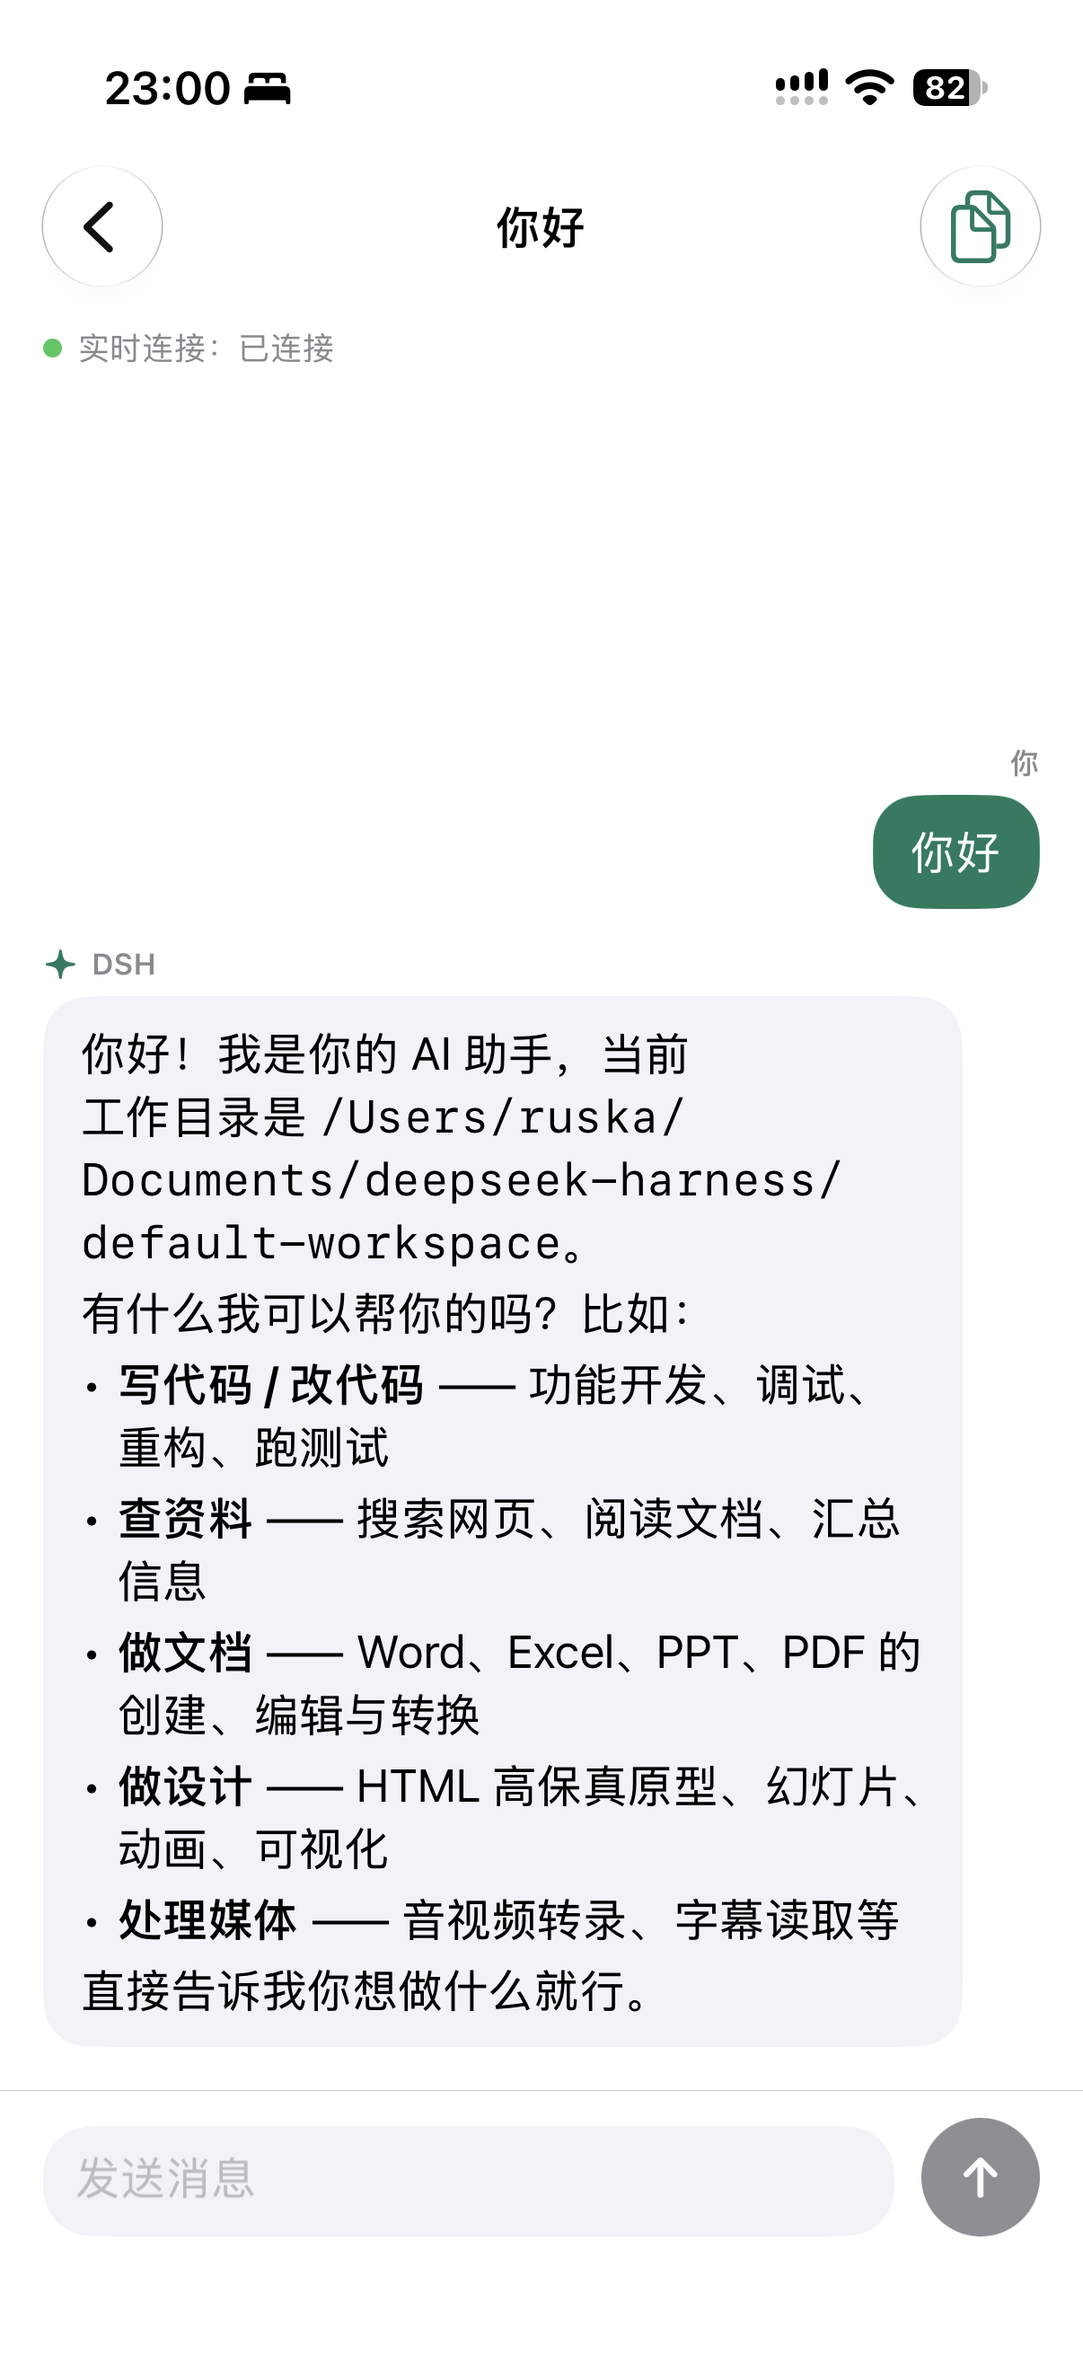
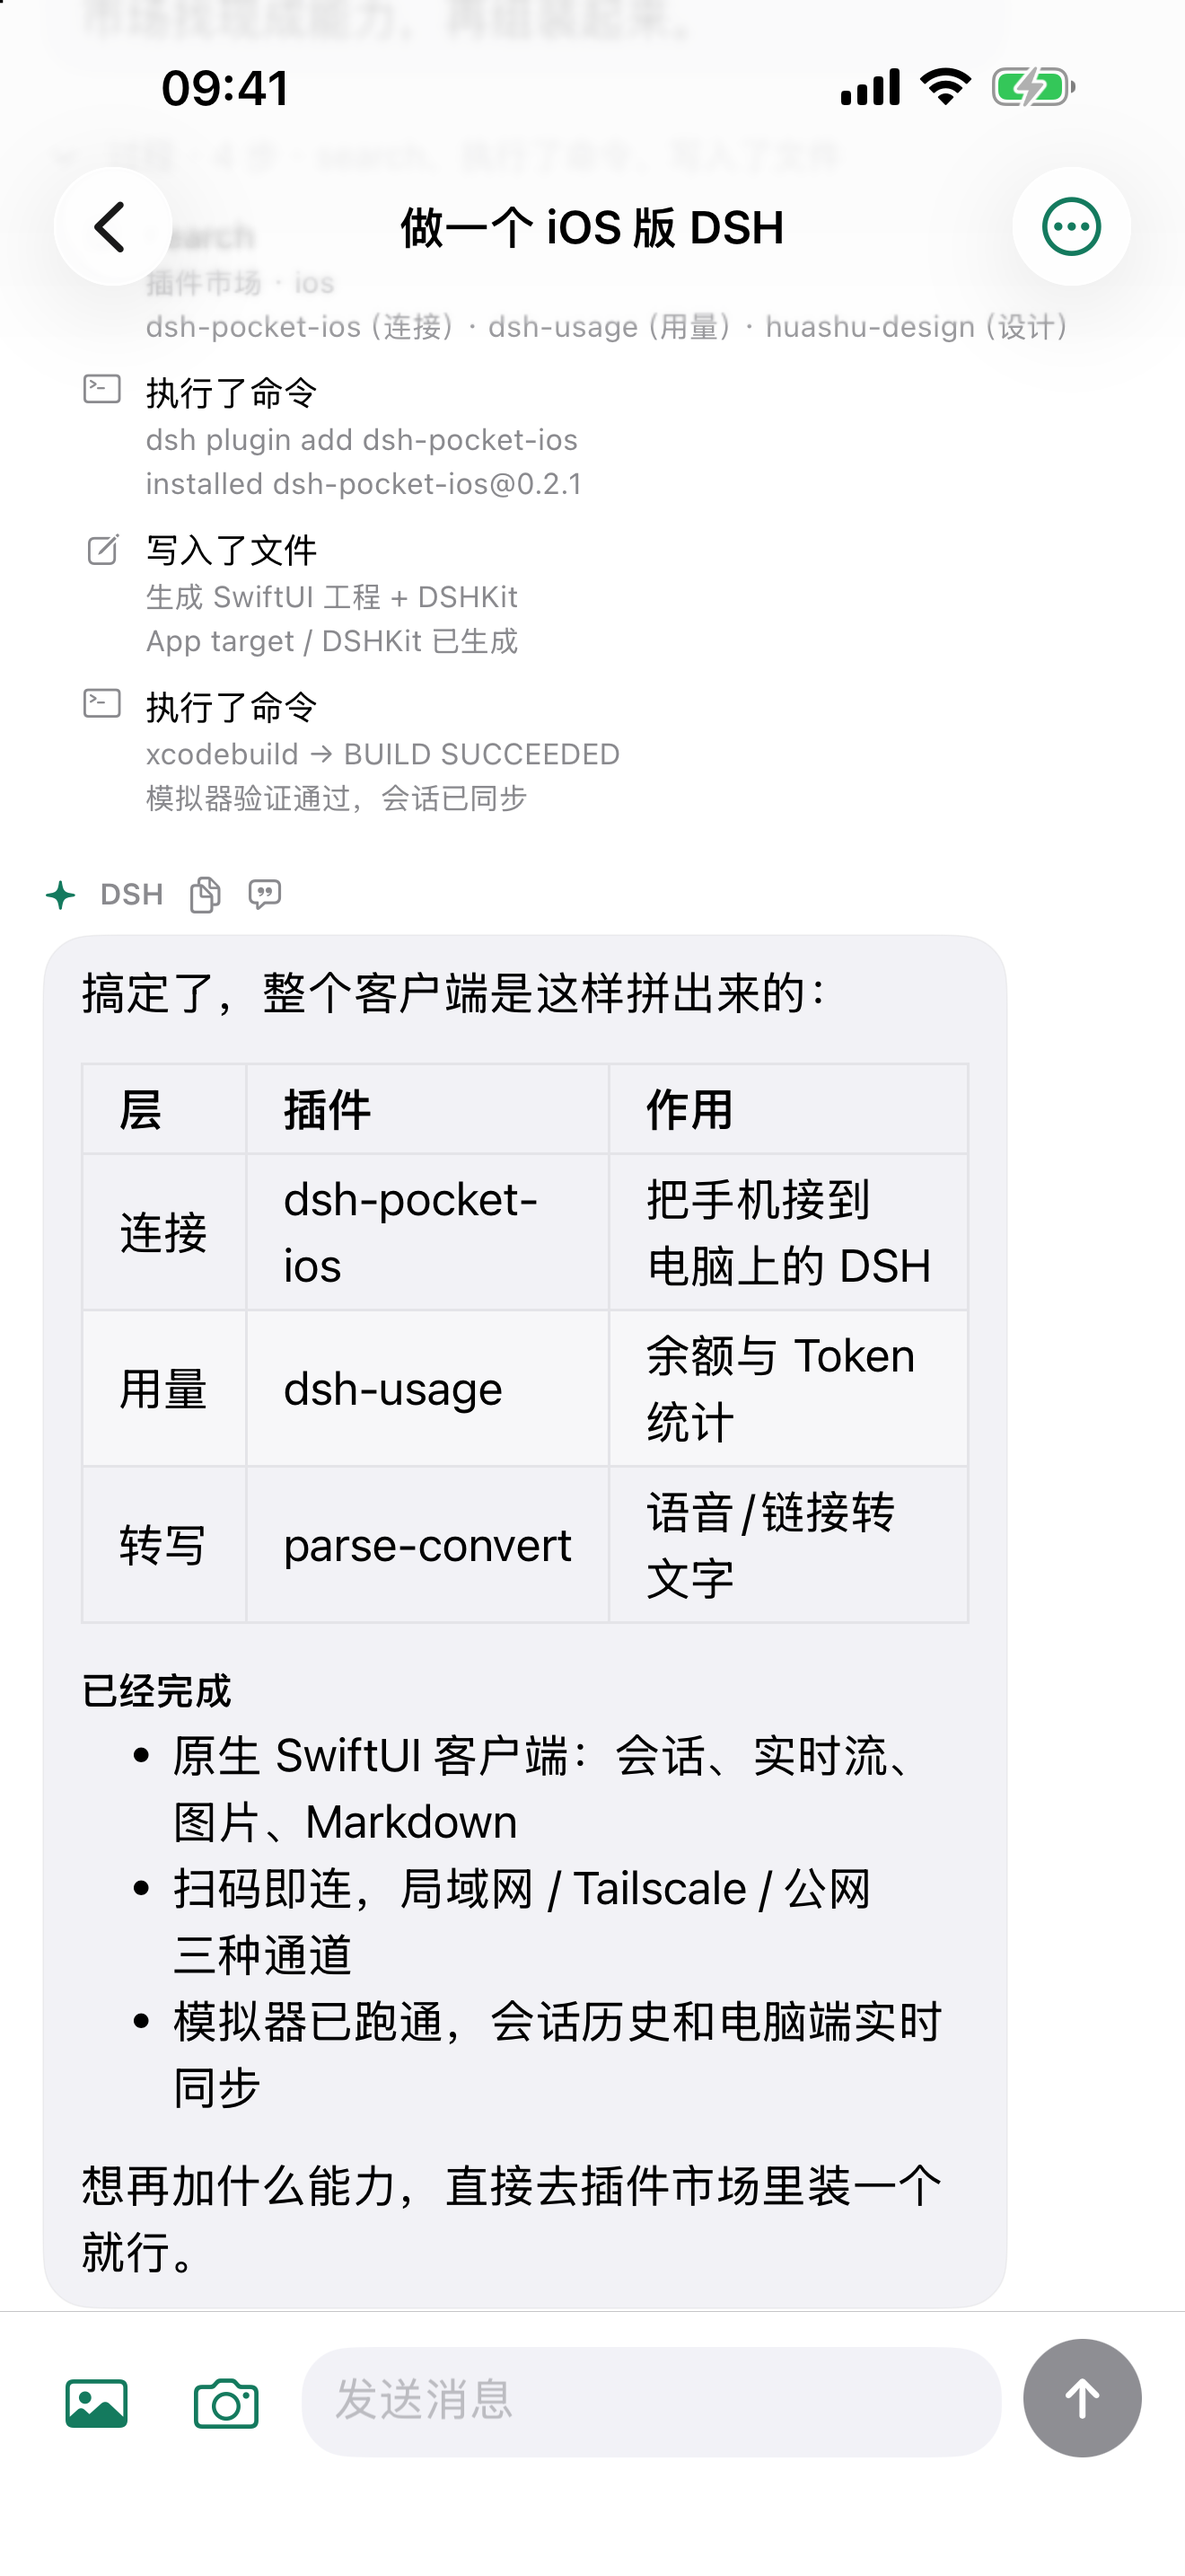
docs: README 更新为当前产品形态（扫码配对/分组/重命名/模型/双语）并刷新截图

diff --git a/README.md b/README.md
@@ -1,178 +1,128 @@
 # DSH Pocket iOS
 
-把 **DeepSeek Harness** 装进口袋 —— 一个原生 SwiftUI 的 iOS 客户端。
+把 **DeepSeek Harness（DSH）** 装进口袋——原生 SwiftUI 的 iOS 客户端 + 配套 DSH 插件。
 
-> 本项目是 [shaobeichen/dsh-pocket](https://github.com/shaobeichen/dsh-pocket) 的 **iOS 原生版本**。
-> dsh-pocket 让手机通过浏览器访问电脑上的 DeepSeek Harness；我们沿用它的连接协议与思路，
-> 用 SwiftUI 重写了移动端体验：手机可以通过**局域网**或**公网隧道**连回自己的电脑，
-> 查看会话、收发消息，随时继续电脑上的 AI 编程。
+电脑上继续跑 DSH，手机扫码就能看会话、发指令、接结果；通勤、外出、躺床上都能接着用。
 
 <p align="center">
-  <img src="docs/screenshots/list.png" width="260" alt="会话列表">
+  <img src="docs/screenshots/list.png" width="240" alt="会话列表">
   &nbsp;&nbsp;
-  <img src="docs/screenshots/chat.png" width="260" alt="对话详情">
+  <img src="docs/screenshots/chat.png" width="240" alt="对话详情">
   &nbsp;&nbsp;
-  <img src="docs/screenshots/connect.png" width="260" alt="连接电脑上的 DSH">
+  <img src="docs/screenshots/connect.png" width="240" alt="扫码连接">
 </p>
 
-<p align="center"><sub>会话列表 · 对话详情 · 连接电脑上的 DSH</sub></p>
+<p align="center"><sub>分组会话列表 · 对话详情 · 扫码连接</sub></p>
 
-## 这是什么
+## 亮点
 
-DSH Pocket iOS 让你用 iPhone 直接操作电脑里的 **DeepSeek Harness（DSH）**：
+- **扫码免密**：电脑设置页生成一次性配对二维码（60 秒有效、自动轮换、单次使用），手机扫码直接登录；
+- **两条连接路线**：Tailscale（固定地址，推荐）或 dsh-pocket（局域网/公网，不装 Tailscale）；
+- **原生体验**：SwiftUI 导航、系统键盘与安全区、原生列表手势；
+- **会话管理**：按工作区分组（可展开/收起）、置顶、归档（可撤销）、长按重命名；
+- **对话**：实时流式回复、工具过程折叠、Markdown、图片、引用、模型切换；
+- **中英文**：跟随系统 / 中文 / English，设置页、会话、连接页全量覆盖。
 
-- 电脑上跑项目、跑测试，手机上看进度、发指令、收结果；
-- 通勤、外出、躺在床上，AI 都在继续干活；
-- 和电脑端共享同一份会话与历史，消息**约 1 秒**内实时出现；
-- 会话列表的可见性与 DSH 桌面端一致：已归档、subagent 子会话、空会话都不会显示。
+## 连接方式
 
-它不是网页套壳，而是原生 SwiftUI App：原生导航、系统键盘与安全区、可复制的诊断记录。
+### 方式一：Tailscale（推荐）
 
-## 功能
+需要：Mac 装 DSH + `dsh-pocket-ios` 插件；iPhone 装 DSH Pocket + Tailscale。
 
-- 🔌 **两种连接方式**：局域网 `http://<电脑IP>:<端口>`（dsh-pocket 默认 **3081**，可在其 `settings.json` 的 `proxyPort` 改成别的端口），或 dsh-pocket 生成的公网隧道（HTTPS）；**扫码会自动填入地址和端口**，不需要自己记。
-- 🔑 **PIN 登录**：走 dsh-pocket 的 `/pocket-login` 协议；登录态用 cookie 保持，**PIN 不会保存在手机上**。登录失效时回到连接页，重新输入即可。
-- 📋 **会话列表**：与桌面端同样的可见性规则，下拉或回到前台自动刷新。
-- 💬 **历史 + 实时**：进入会话直接定位到底部（无滚动动画），历史快照之后由 `session/follow` WebSocket 实时推送增量消息。
-- ✍ **发送消息**：本地即时回显 → 服务端确认 → 实时/轮询收到回复；失败自动恢复输入。
-- 🧭 **过程时间线**：每轮的工具调用折叠成一行「过程 · N 步 · 执行了命令、查看了图片」，点开看细节；助手工作时顶部显示「深度求索中 · 已用 X 秒」。
-- 🖼 **图片**：对话内直接显示缩略图——你发送的图片、助手工具读取的截图都能看；支持从相册选图或拍照发送。
-- 📝 **Markdown 渲染**：保留换行，列表、代码块、标题、加粗、行内代码都能正确显示。
-- 🔁 **断线重连**：实时流中断后指数退避重连，会话页顶部显示连接状态。
-- 🩺 **诊断**：会话页可一键复制连接、收帧、渲染的时间线，便于排查问题。
-- 🎬 **演示模式**：连接页可进入内置示例（会话、对话、过程、图片），没有电脑也能体验界面；演示数据不联网。
+```bash
+tailscale serve --bg 3091
+```
 
-## 工作原理
+打开 DSH → 设置 →「手机访问（iOS）」，用 DSH Pocket 扫卡片上的配对二维码即可。
 
-依赖电脑端已安装并启用 [`dsh-pocket`](https://github.com/shaobeichen/dsh-pocket) 插件。它把 DSH 反代到局域网（默认监听 **3081**，端口可在插件 `settings.json` 的 `proxyPort` 里改），并负责 PIN 登录与公网隧道。
+### 方式二：dsh-pocket（局域网/公网）
 
-| 环节 | 实现 |
-| --- | --- |
-| 登录 | `POST /pocket-login`（表单 `token=<PIN>`）。正确 → `302` + `dsh_pocket_token` cookie；错误 → `200` 登录页 |
-| 会话列表 | `POST /api/session/list`，`type: "client-request"` RPC |
-| 历史分页 | `POST /api/session/page`，取 `records` |
-| 实时消息 | `WebSocket /api/remote.mux`，`open` 一个 `session/follow` 流；帧为 `{type:"item", streamId, value}`，`value` 是 `snapshot` 或 `event` |
-| 归档状态 | `workspace/follow` 首帧 baseline 的 `archivedSessionIds`（旧版服务端回退路径） |
-| 发送 | `POST /api/session/prompt` |
+需要：Mac 装 DSH + `dsh-pocket` 插件；iPhone 装 DSH Pocket。
 
-> 一个容易踩的坑：`URLComponents.url` 在 path 不以 `/` 开头时会返回 `nil`，而 `appendingPathComponent("api/remote.mux")` 对空 path 恰好拼出 `"api/remote.mux"`——曾导致实时流静默不启动。代码里已用 `webSocketURL(from:path:)` 显式补斜杠。
+在 DSH → 设置 →「手机访问」用 dsh-pocket 的局域网/公网二维码连接，并输入它显示的访问密码。不需要安装 `dsh-pocket-ios`（想要统一设置页和扫码配对再加装）。
 
-## 环境要求
-
-- iPhone，**App Store 版 iOS 17.0+；最新源码 iOS 18.0+**
-- 电脑上运行 DeepSeek Harness，并安装启用 `dsh-pocket` 插件
-- 构建：Xcode（Swift 5.9+），已在本机 iPhone 17 Pro / iOS 26.3 真机验证
+> 两个插件可共存：`dsh-pocket-ios` 使用 **3091**，`dsh-pocket` 使用 **3081**。
 
 ## 安装
 
-**方式 A（推荐，App Store）**：在 App Store 搜索「DSH Pocket」或打开
-<https://apps.apple.com/app/id6832288744> 下载安装（免费）。
+**App（iOS 18+）**：App Store 搜索「DSH Pocket」，或 <https://apps.apple.com/app/id6832288744>。
 
-**方式 B（GitHub Release + 自签）**：从 [Releases](https://github.com/jqlong17/dsh-pocket-ios/releases) 下载
-[DSHPocket.ipa](https://github.com/jqlong17/dsh-pocket-ios/releases/latest/download/DSHPocket.ipa)，
-用 [AltStore](https://altstore.io/)、[Sideloadly](https://sideloadly.io/) 等工具自签安装。
-免费 Apple ID 签名 7 天有效，开发者账号（$99/年）签名一年有效，到期重签即可。
-
-**方式 C（开发者）**：下载源码，用 Xcode 打开 `DSHPocket.xcodeproj`，选择自己的 Team 与 Bundle ID 后运行到 iPhone。
-
-> 自签 IPA 是开发签名包；自签工具会用你的证书重签后再安装。
-> 没有 App Store 的地区（如部分账号区）仍可用自签方式安装。
-
-## 构建与运行
-
-1. 用 Xcode 打开 `DSHPocket.xcodeproj`；
-2. 在 Signing & Capabilities 里选择你自己的 Team，并按需修改 Bundle Identifier；
-3. 选择已连接的 iPhone 运行。
-
-命令行构建（真机）：
+**电脑端插件**：
 
 ```bash
-xcodebuild -project DSHPocket.xcodeproj -scheme DSHPocket -configuration Debug \
-  -destination 'id=<你的设备 UDID>' \
-  -derivedDataPath /tmp/dsh-pocket-ios-derived \
-  DEVELOPMENT_TEAM=<你的 Team ID> CODE_SIGN_STYLE=Automatic build
+dsh plugin add dsh-pocket-ios
 ```
 
-## 自测入口（仅 Debug）
+安装后重启 DSH 并刷新页面（client 模块在启动时加载）。设置页位置：账号与余额 → 通用设置 → 手机访问 → **手机访问（iOS）** → 模型。
 
-Debug 构建支持通过环境变量自动连接，方便在模拟器/真机上做回归：
+## 功能
+
+- 会话列表：工作区分组 / 时间线两种显示方式；置顶、归档（可撤销）、长按重命名；下拉与回前台自动刷新；
+- 对话：历史分页 + `session/follow` 实时增量；工具调用折叠成「过程 · N 步」；Markdown、表格、图片、引用；
+- 发送：乐观回显、ACK 后保留至消息落库、失败重试、生成中 steer；401 自动回连接页重新扫码；
+- 更多菜单：复制会话地址 / 日志路径 / 诊断信息、选择模型；
+- 演示模式：没有电脑也能体验内置示例，不联网。
+
+## 工作方式
+
+依赖电脑端 DSH 与插件。主要接口：
+
+| 环节 | 实现 |
+| --- | --- |
+| 配对登录 | `POST /dsh-pocket-ios/pair`（一次性 token）→ 302 + `dsh-auth` cookie |
+| 会话列表 | `session/list`、baseline 的 `archivedSessionIds` / `pinnedSessionIds` |
+| 历史分页 | `session/page` |
+| 实时消息 | `WebSocket /api/remote.mux`，`session/follow` 流 |
+| 发送 | `session/prompt`（`queue` / `steer`） |
+| 会话管理 | `session/rename`、`workspace/pinSession` / `unpinSession`、`workspace/archiveSession` / `unarchiveSession` |
+| 模型 | `session/modelCatalog`、`session/selectModel` |
+| 图片 | `session/attachment`、`api/file?path=` |
+
+## 构建与测试
 
 ```bash
-SIMCTL_CHILD_DSH_SERVER='http://192.168.1.10:3081' \
-SIMCTL_CHILD_DSH_PIN='<PIN>' \
-SIMCTL_CHILD_DSH_OPEN='session-xxxx' \
+# App（模拟器）
+xcodebuild -quiet -project DSHPocket.xcodeproj -scheme DSHPocket -configuration Debug \
+  -destination 'generic/platform=iOS Simulator' -derivedDataPath /tmp/dsh-pocket-ios-sim-derived \
+  CODE_SIGNING_ALLOWED=NO ARCHS=arm64 build
+
+# 逻辑单测（排序 / 待发消息保留 / 401）
+cd DSHKit && swift test
+
+# UI 回归（Demo 模式，无需电脑）
+scripts/run-ui-tests.sh <模拟器 UDID>
+```
+
+## Debug 自测入口（仅 Debug）
+
+```bash
+SIMCTL_CHILD_DSH_DEMO=1 \
+SIMCTL_CHILD_DSH_OPEN=demo-1 \
 SIMCTL_CHILD_DSH_SEND='你好' \
 xcrun simctl launch --terminate-running-process <UDID> com.ruska.dsh-pocket-ios
 ```
 
-- `DSH_SERVER` / `DSH_PIN`：自动登录
-- `DSH_OPEN`：连接后自动打开指定会话
-- `DSH_SEND`：进入会话后自动发送一条消息
-- `DSH_CONNECT=1`：停留在连接页（用于截图/排查）
-
-诊断记录同时写入沙盒 `Documents/diagnostics.log`，真机可用 `xcrun devicectl device copy from` 拉取。
+- `DSH_DEMO=1`：演示模式；`DSH_OPEN`：打开指定会话；`DSH_SEND`：自动发送
+- `DSH_SERVER` / `DSH_PIN`：自动登录；`DSH_CONNECT=1`：停留在连接页
+- 诊断写入沙盒 `Documents/diagnostics.log`
 
 ## 项目结构
 
 ```
-DSHPocket/
-└── DSHPocketApp.swift    # 连接模型、RPC/WebSocket、消息解析、全部视图（SwiftUI）
-DSHPocket.xcodeproj       # Xcode 工程
-Info.plist                # 本地网络权限、ATS 局域网例外
-docs/screenshots/         # README 截图
-spec/                     # 重构规格（TDD：模块 spec、测试用例、覆盖率门槛 ≥85%）
-docs/architecture-review-2026-11-09.md  # 架构评审（对比开源聊天客户端）
+DSHPocket/DSHPocketApp.swift   # 连接模型、RPC/WS、消息与全部 SwiftUI 视图
+DSHKit/                        # 本地 Swift Package：传输、协议、同步、Store、UI 组件
+DSHPocketUITests/              # Demo 模式 UI 回归
+plugin/                        # DSH 插件（dsh-pocket-ios）：设置页、配对、3091 代理
+docs/qa-conversation-regression.md
 ```
 
-## 配套 DSH 插件（可选）
+## 链接
 
-更新记录见 [`CHANGELOG.md`](CHANGELOG.md)。
+- App Store：<https://apps.apple.com/app/id6832288744>
+- DSH 插件：<https://www.npmjs.com/package/dsh-pocket-ios>
+- 使用说明（飞书）：<https://my.feishu.cn/docx/XyhpdKD2Uo5y1ZxXFbscTpizntc>
+- dsh-pocket（第三方，可选）：<https://github.com/shaobeichen/dsh-pocket>
 
-仓库里的 [`plugin/`](plugin/) 是一个 DSH 插件 `dsh-pocket-ios`：在 **设置 → 手机访问** 里加入 iOS
-客户端下载二维码与连接引导，并依赖 `dsh-pocket`（一条命令装齐电脑端）。
+## License
 
-```bash
-# 已发布到 npm：https://www.npmjs.com/package/dsh-pocket-ios
-dsh plugin add dsh-pocket-ios
-```
-
-安装后打开 **设置 → 手机访问**，即可看到 iOS 客户端下载二维码与安装引导。
-
-详见 [plugin/README.md](plugin/README.md)。
-
-## 已知限制
-
-- 文本与图片已支持；工具执行细节以折叠的"过程"行呈现，审批卡片等更复杂的富内容尚未接入。
-- 不保存 PIN；服务器重启导致 cookie 失效时需要重新输入 PIN。
-- 旧版 DSH 桌面端不支持 `session/list` 的 `excludeArchived` 参数，iOS 会回退到 `workspace/follow` 拉取归档列表再本地过滤。
-
-## 版本
-
-当前版本 **0.0.1**（首个公开版本）。
-
-## 隐私与支持
-
-- 隐私政策：<https://dsh-pocket-ios.pages.dev/privacy>
-- 支持页：<https://dsh-pocket-ios.pages.dev/support>
-- App 不收集任何数据、不运营服务器；详见隐私政策。
-
-## 许可证与独立实现声明
-
-本项目**按目录使用不同许可证**：
-
-| 目录 / 产物 | 许可证 | 说明 |
-| --- | --- | --- |
-| `DSHPocket/`（iOS App） | **MIT**，见 [LICENSE](LICENSE) | 独立 Swift 实现，可分发到 App Store |
-| `plugin/`（DSH 插件 `dsh-pocket-ios`） | **GPL-2.0**，见 [plugin/LICENSE](plugin/LICENSE) | 与上游 dsh-pocket 生态一致 |
-
-**iOS 客户端是独立实现**：它依据 DeepSeek Harness / dsh-pocket 公开可观察的 HTTP、WebSocket
-协议与行为编写，没有复制或翻译上游源代码；协议端点、字段、帧格式属于接口事实，不构成版权表达。
-完整声明见 [NOTICE](NOTICE)。
-
-## 致谢
-
-- 协议与设备接入思路来自 [shaobeichen/dsh-pocket](https://github.com/shaobeichen/dsh-pocket)（GPL-2.0）；
-- 上游 DSH 为 [DeepSeek Harness](https://github.com/deepseek-ai)；
-- "DeepSeek Harness"、"DeepSeek"、"dsh-pocket" 等名称归各自权利人所有。
-
-本项目为非官方客户端，与 DeepSeek Harness、dsh-pocket 的维护者无隶属关系。
+GPL-2.0，见 [LICENSE](LICENSE)。
